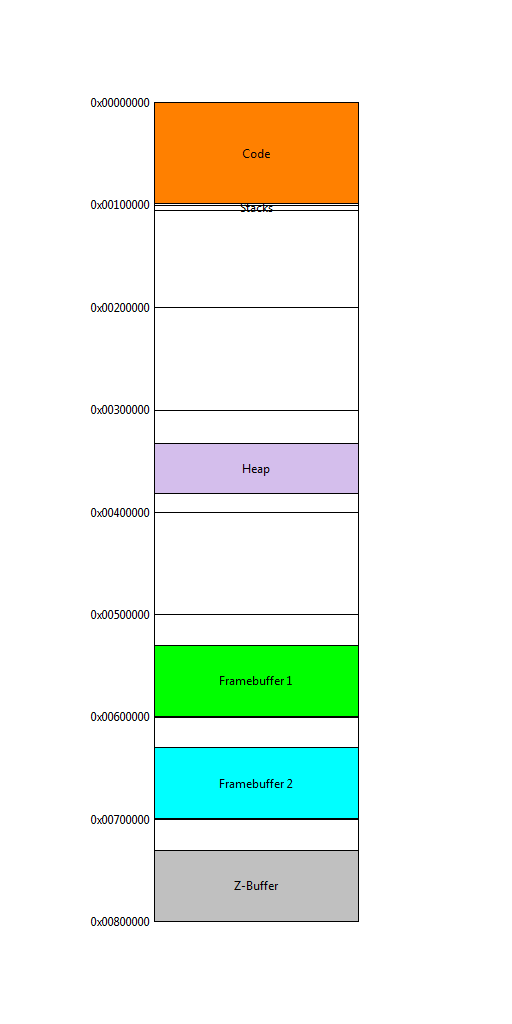
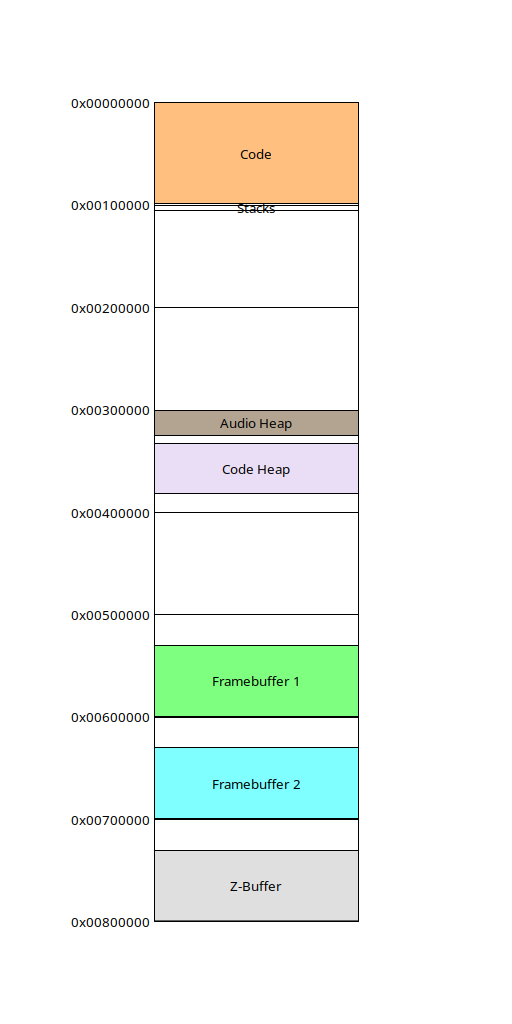
Simple sine wave generation

diff --git a/Engine/N64/audio.c b/Engine/N64/audio.c
@@ -5,6 +5,8 @@ Handles audio
 ***************************************************************/
 
 #include <ultra64.h>
+#include <n_libaudio.h>
+#include <math.h>
 #include "debug.h"
 #include "osconfig.h"
 #include "audio.h"
@@ -21,7 +23,8 @@ static void threadfunc_audio(void *arg);
              Globals
 *********************************/
 
-static OSThread	s_threadstruct_audio;
+static OSThread s_threadstruct_audio;
+static s16*     s_audio_data;
 
 
 /*==============================
@@ -45,14 +48,42 @@ void audio_initialize()
 
 static void threadfunc_audio(void *arg)
 {
-    debug_printf("Created audio thread\n");
+    u32 i;
+    u32 l_wave_index = 0;
+    const u32 c_duration = 1;
+    const u32 c_samplecount = c_duration * AUDIO_FREQUENCY*2;
+    const u32 c_buffersize  = c_samplecount*sizeof(u16);
+    debug_printf("Audio Thread: Started\n");
+    if (c_buffersize > 262144)
+        debug_printf("Audio Thread: WAARNING: Audio buffer too big. %d / 262144 bytes\n", c_buffersize);
+    
+    // Initialize the AI
+    osAiSetFrequency(AUDIO_FREQUENCY);
+
+    // Initialize the audio data with a 440hz sine wave
+    debug_printf("Audio Thread: Initializing audio data\n");
+    s_audio_data = (u16*)HEAP_AUDIO_START;
+    for (i=0; i<c_samplecount; i+=2)
+    {
+        const u32 c_frequency = 440;
+        const f32 c_sample = sinf(2*M_PI * c_frequency * (((double)l_wave_index)/((double)AUDIO_FREQUENCY)));
+        const s16 c_volume = 0x7FFF;
+        s_audio_data[i+0] = (s16)(c_sample*c_volume); // Left channel
+        s_audio_data[i+1] = (s16)(c_sample*c_volume); // Right channel
+        l_wave_index++;
+    }
+    osWritebackDCache(s_audio_data, c_buffersize);
+    
+    // Set the next buffer for the AI to use
+    debug_printf("Audio Thread: Sending audio data to DAC\n");
+    osAiSetNextBuffer(s_audio_data, c_buffersize);
     
     // Spin this thread forever
     while (1)
     {
-        debug_printf("Audio thread loop start\n");
+        debug_printf("Audio Thread: Loop start.\n");
         
-        debug_printf("Stopping audio thread\n");
+        debug_printf("Audio Thread: Loop end, stopping thread\n");
         osStopThread(&s_threadstruct_audio);
     }
 }

diff --git a/Engine/N64/osconfig.h b/Engine/N64/osconfig.h
@@ -148,6 +148,7 @@
     #define THREADID_AUDIO       6
     #define THREADID_FAULT       13 // From debug.h, included here for completion sake
     #define THREADID_USB         14 // From debug.h, included here for completion sake
+    #define THREADID_RDB         15 // From debug.h, included here for completion sake
     
     // Thread Priorities
     #define THREADPRI_IDLE        1
@@ -158,6 +159,7 @@
     #define THREADPRI_AUDIO       25
     #define THREADPRI_FAULT       125 // From debug.h, included here for completion sake
     #define THREADPRI_USB         126 // From debug.h, included here for completion sake
+    #define THREADPRI_RDB         124 // From debug.h, included here for completion sake
     
     
     /*********************************
@@ -165,7 +167,11 @@
     *********************************/
     
     #define HEAP_START  (FRAMEBUFF_ADDRZ_SD - 1)
-    #define HEAP_SIZE   0x080000 // Half a megabyte of heap memory
+    #define HEAP_SIZE   0x080000 // Half a megabyte of code heap memory
+    
+    // Audio Heap 
+    #define HEAP_AUDIO_START  (RAMBANK_3)
+    #define HEAP_AUDIO_SIZE   0x040000 // Quarter of a megabyte of audio heap memory
     
     
     /*********************************

diff --git a/Engine/N64/audio.h b/Engine/N64/audio.h
@@ -1,6 +1,8 @@
 #ifndef PLATFORM64_AUDIO_H
 #define PLATFORM64_AUDIO_H
 
+    #define AUDIO_FREQUENCY   44100 // Output frequency (44100, 32000, or 22050)
+
     void audio_initialize();
     void audio_stopthread();
 
